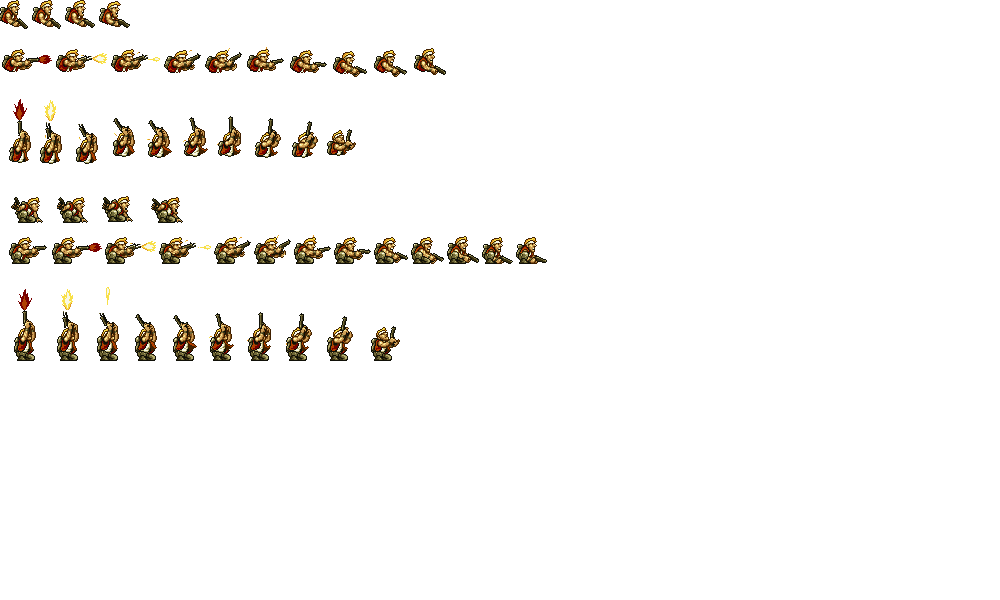
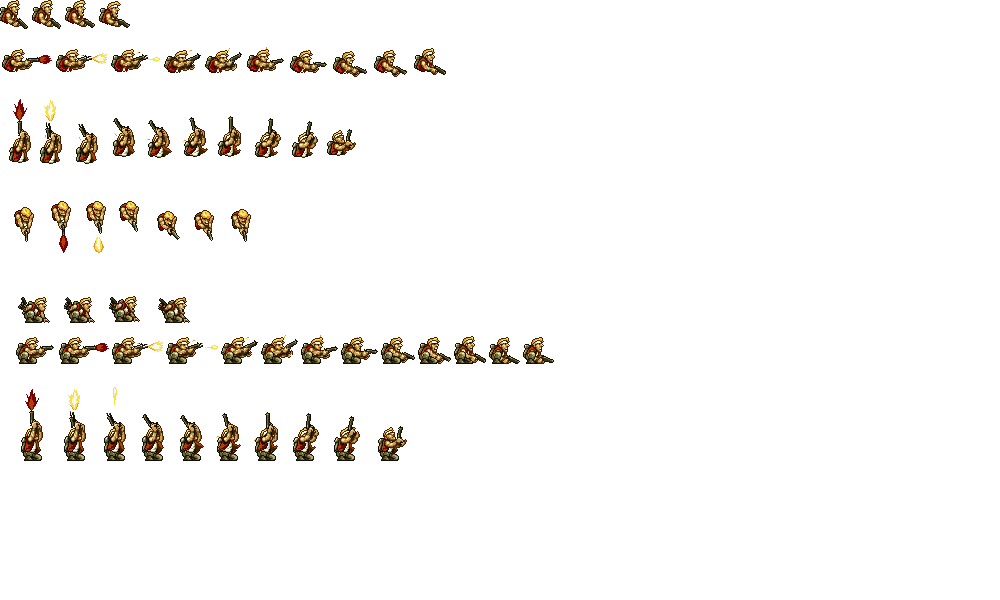
Possibilité de tirer vers le bas en sautant (avec l'animation qui va bien)

Changed region(s): [[0.0, 0.48, 0.558, 0.63], [0.0, 0.33, 0.558, 0.45], [0.0, 0.66, 0.403, 0.78]]

diff --git a/src/controller/Game.cpp b/src/controller/Game.cpp
@@ -181,6 +181,10 @@ void Game::checkKeyboardEvents(RenderWindow* window)
                     player.shoot(&ammo, Int2(0,-1));
                     break;
 
+                case Keyboard::Down :
+                    player.shoot(&ammo, Int2(0,1));
+                    break;
+
 
                 /* RECHARGER */
                 case Keyboard::R :
@@ -238,13 +242,15 @@ void Game::checkCollisions()
     Int2 p_pos = player.getPosition();
     Int2 p_siz = player.getSize();
 
+    list<PlatformView>* pltf = &(level.environment.platforms);
+
+
     /* PLAYER / BORD DE L'ECRAN */
     if(p_pos.x <= view.getCenter().x-view.getSize().x/2)
         player.bumpLeft(view.getCenter().x-view.getSize().x/2);
 
 
     /* PLAYER / PLATFORM */
-    list<PlatformView>* pltf = &(level.environment.platforms);
     bool collision = false;
     for(list<PlatformView>::iterator pl=pltf->begin(); pl!=pltf->end(); pl++) // On check les collisions avec TOUTES les plateformes (on peut etre en collision avec le sol et un mur...)
     {
@@ -270,6 +276,29 @@ void Game::checkCollisions()
     }
     if(!collision) { // Si il n'y a collision avec aucune plateforme, le personnage est en l'air et tombe
         player.jump(0);
+    }
+
+
+
+    /* ENNEMIS */
+    for(list<EnemyView*>::iterator e = enemies.begin(); e != enemies.end(); e++)
+    {
+        collision = false;
+        for(list<PlatformView>::iterator pl=pltf->begin(); pl!=pltf->end(); pl++) // On check les collisions avec TOUTES les plateformes (on peut etre en collision avec le sol et un mur...)
+        {
+            ObjetPhysique* e_ptr = (ObjetPhysique*)(*e);
+            ObjetPhysique* pl_ptr = (ObjetPhysique*)(&*pl);
+
+            if(checkIntersect(e_ptr,pl_ptr))
+            {
+                collision = true; 
+                if(checkCollisionTop(e_ptr,pl_ptr))
+                    (*e)->land((*pl).getPosition().y);              
+            }
+        }
+        if(!collision) { // Si il n'y a collision avec aucune plateforme, le personnage est en l'air et tombe
+            (*e)->jump(0);
+        }
     }
 
 
@@ -346,6 +375,7 @@ bool Game::checkIntersect(ObjetPhysique* obj1, ObjetPhysique* obj2) // Renvoie T
     Int2 pos2 = obj2->getPosition();
     Int2 siz1 = obj1->getSize();
     Int2 siz2 = obj2->getSize();
+    Float2 mov1 = obj1->getMovement();
 
     if(pos1.x + 20 > pos2.x + siz2.x  // p1(gauche) a droite de   p2(droite)
     || pos1.x + siz1.x - 20 < pos2.x  // p1(droite) a gauche de   p2(gauche)
@@ -370,13 +400,12 @@ bool Game::checkCollisionTop(ObjetPhysique* obj1, ObjetPhysique* obj2) {
 
     int hauteurIntersect = pos1.y + siz1.y - pos2.y; // la hauteur de la superposition entre le bas de o1 et le haut de o2 (on part du principe que o1 est dans la partie haute de o2)
     int largeurIntersect = min(pos1.x + siz1.x, pos2.x + siz2.x) - max(pos1.x, pos2.x); // La largeur de la superposition est égale a la taille de la superposition entre la plus grande des valeurs gauche, et la plus petite des valeurs droites.
-    if (((hauteurIntersect > 0) && (pos2.y > pos1.y)) // Si o1 est dans la partie haute de o2 (si le bas de o1 est en dessous du haut de o2, et que le haut de o1 est au dessus du haut de o2)
-        && (largeurIntersect > hauteurIntersect) 
-        && mov1.y>=0) {
+    if (mov1.y >= 0 
+        && hauteurIntersect > 0 && pos2.y > pos1.y // Si o1 est dans la partie haute de o2 (si le bas de o1 est en dessous du haut de o2, et que le haut de o1 est au dessus du haut de o2)
+        && largeurIntersect > hauteurIntersect)
         return true;
-    } else {
+    else
         return false;
-    }
 }
 
 
@@ -386,17 +415,18 @@ bool Game::checkCollisionBottom(ObjetPhysique* obj1, ObjetPhysique* obj2) {
     Int2 pos2 = obj2->getPosition();
     Int2 siz1 = obj1->getSize();
     Int2 siz2 = obj2->getSize();
+    Float2 mov1 = obj1->getMovement();
 
     //Si o1 est dans la partie basse de o2, et que la largeur de l'intersection entre o1 et o2 est suppérieure a sa hauteur, alors on a une collision entre o1 et o2 venant du bas
 
     int hauteurIntersect = pos2.y + siz2.y - pos1.y; // la hauteur de la superposition entre le bas de o2 et le haut de o1 (on part du principe que o1 est dans la partie basse de o2)
     int largeurIntersect = std::min(pos1.x + siz1.x, pos2.x + siz2.x) - max(pos1.x, pos2.x); // La largeur de la superposition est égale a la distance entre la plus grande des valeurs gauche, et la plus petite des valeurs droites.
-    if (((hauteurIntersect > 0) && (pos1.y + siz1.y > pos2.y + siz2.y)) // Si o1 est dans la partie basse de o2 (si le haut de o1 est au dessus du bas de o2, et que le bas de o1 est en dessous du bas de o2)
-        && (largeurIntersect > hauteurIntersect)) {
+    if (mov1.y <=0
+        && hauteurIntersect > 0 && pos1.y + siz1.y > pos2.y + siz2.y // Si o1 est dans la partie basse de o2 (si le haut de o1 est au dessus du bas de o2, et que le bas de o1 est en dessous du bas de o2)
+        && (largeurIntersect > hauteurIntersect))
         return true;
-    } else {
+    else
         return false;
-    }
 }
 
 
@@ -412,11 +442,10 @@ bool Game::checkCollisionLeft(ObjetPhysique* obj1, ObjetPhysique* obj2) {
     int largeurIntersect = pos1.x + siz1.x - pos2.x; // la largeur de la superposition entre la gauche de o2 et la droite de o1 (on part du principe que o1 est dans la partie gauche de o2)
     int hauteurIntersect = std::min(pos1.y + siz1.y, pos2.y + siz2.y) - max(pos1.y, pos2.y); // La hauteur de la superposition est égale a la distance entre la plus grande des valeurs haute, et la plus petite des valeurs basses.
     if (((largeurIntersect > 0) && (pos2.x > pos1.x)) // Si o1 est dans la partie gauche de o2 (si la droite de o1 est a droite de la gauche de o2, et que la gauche de o1 est a gauche de la gauche de o2)
-        && (hauteurIntersect > largeurIntersect)) {
+        && (hauteurIntersect > largeurIntersect))
         return true;
-    } else {
+    else
         return false;
-    }
 }
 
 
@@ -432,11 +461,10 @@ bool Game::checkCollisionRight(ObjetPhysique* obj1, ObjetPhysique* obj2) {
     int largeurIntersect = pos2.x + siz2.x - pos1.x; // la largeur de la superposition entre la gauche de o1 et la droite de o2 (on part du principe que o1 est dans la partie droite de o2)
     int hauteurIntersect = std::min(pos1.y + siz1.y, pos2.y + siz2.y) - max(pos1.y, pos2.y); // La hauteur de la superposition est égale a la distance entre la plus grande des valeurs haute, et la plus petite des valeurs basses.
     if (((largeurIntersect > 0) && (pos1.x + siz1.x > pos2.x + siz2.x)) // Si o1 est dans la partie droite de o2 (si la gauche de o1 est a gauche de la droite de o2, et que la droite de o1 est a droite de la droite de o2)
-        && (hauteurIntersect > largeurIntersect)) {
+        && (hauteurIntersect > largeurIntersect))
         return true;
-    } else {
+    else
         return false;
-    }
 }
 
 

diff --git a/src/view/PlayerView.cpp b/src/view/PlayerView.cpp
@@ -63,33 +63,46 @@ void PlayerView::display(RenderWindow* window)
 	/* JAMBES */
 	Vector2f legs_size = legs.getSize();
 
-	if(walkway>0)
+	if(walkway>0) // marcher à droite
 		legs.setPosition(Int2(position.x-(legs_size.x-size.x)/2,position.y+size.y-legs_size.y));
-	else
+	else // marcher à gauche
 		legs.setPosition(Int2(position.x-(legs_size.x-size.x)/2,position.y+size.y-legs_size.y));
 	
 	/* CORPS */
 	Vector2f body_size = body.getSize();
 	Vector2f legs_pos = legs.getPosition();
-	
-	if(state_p == KNELT)
+
+	if(state_b == SHOOT) // tirer
 	{
-		if(state_b==SHOOT && gunway.x<0)
-			body.setPosition(Vector2f(position.x+size.x-body_size.x,position.y+size.y-body_size.y));
-		else
-			body.setPosition(Vector2f(position.x,position.y+size.y-body_size.y));
-	}
-	else
-	{
-		if(state_b==SHOOT && gunway.x==0) // tire vers le haut
-			body.setPosition(Vector2f(position.x+(walkway>0?15:0),legs_pos.y-body_size.y+15));
-		else if((state_b==SHOOT && gunway.x>0) || (state_b!=SHOOT && walkway>0)) // tire a gauche
+		if(gunway.x > 0 && gunway.y == 0) // tirer à droite
 			body.setPosition(Vector2f(position.x+15,position.y));
-		else // tire a droite ou autre
+		else if(gunway.x < 0 && gunway.y == 0) // tirer à gauche
+			body.setPosition(Vector2f(position.x+size.x-body_size.x-15,position.y));
+		else if(gunway.x == 0 && gunway.y < 0) // tirer en haut
+			body.setPosition(Vector2f(position.x+(walkway>0?15:size.x-body_size.x-15),legs_pos.y-body_size.y+15));
+		else // tirer en bas
+			body.setPosition(Vector2f(position.x+(walkway>0?20:size.x-body_size.x-20),position.y+10));
+	}
+	else // marcher
+	{
+		if(walkway>0) // marcher à droite
+			body.setPosition(Vector2f(position.x+15,position.y));
+		else // marcher à gauche
 			body.setPosition(Vector2f(position.x+size.x-body_size.x-15,position.y));
 	}
 
+	if(state_p == KNELT) // à genoux
+	{
+		Vector2f tmp = body.getPosition();
+		body.setPosition(Vector2f(tmp.x,position.y+size.y-body_size.y));
+	}
 
+
+	/* DEBUG */
+	// body.setOutlineThickness(5);
+	// body.setOutlineColor(Color::Black);
+	// legs.body.setOutlineThickness(5);
+	// legs.body.setOutlineColor(Color::Black);
 
 	/* DESSIN */
 	if(state_p != KNELT)
@@ -227,6 +240,7 @@ void PlayerView::shoot(list<AmmoView*>* air, Int2 angle)
 		gunway = angle;
 		PlayerAnimationsBody anim_shoot;
 		PlayerAnimationsBody anim_shoot_up;
+		PlayerAnimationsBody anim_shoot_down;
 		PlayerAnimationsBody anim_after;
 
 		if(state_p == KNELT)
@@ -237,13 +251,16 @@ void PlayerView::shoot(list<AmmoView*>* air, Int2 angle)
 		}
 		else
 		{
-			anim_shoot    = PISTOLSHOOT;
-			anim_shoot_up = PISTOLSHOOTUP;
-			anim_after    = PISTOLRUN;
+			anim_shoot      = PISTOLSHOOT;
+			anim_shoot_up   = PISTOLSHOOTUP;
+			anim_shoot_down = PISTOLSHOOTDOWN;
+			anim_after      = PISTOLRUN;
 		}
 
-		if(gunway.x==0)
+		if(gunway.y<0)
 			changeAnimation(anim_shoot_up,false,anim_after);
+		else if(gunway.y>0)
+			changeAnimation(anim_shoot_down,false,anim_after);
 		else
 			changeAnimation(anim_shoot,false,anim_after);	
 

diff --git a/src/model/Player.cpp b/src/model/Player.cpp
@@ -81,12 +81,15 @@ void Player::setWeapon(int w)
 
 void Player::shoot(list<Ammo*>* air, Float2 angle)
 {
-	if(armes.size()>0)
+	if(armes.size()>0) // si on a une arme
 	{
-		armes[current_weapon]->shoot(air,angle);
-		state_b = SHOOT;
-		if(state_p == KNELT && angle.x!=0)
-			walkway = angle.x;
+        if(angle.y<=0 || state_g==AIR)
+        {
+    		armes[current_weapon]->shoot(air,angle);
+    		state_b = SHOOT;
+    		if(state_p == KNELT && angle.x!=0)
+    			walkway = angle.x;
+        }
 	}
 }
 
@@ -101,6 +104,7 @@ void Player::reload(int nb)
 {
 	armes[current_weapon]->reload(nb);
 }
+
 
 void Player::animate(int dt)
 {

diff --git a/include/view/PlayerView.h b/include/view/PlayerView.h
@@ -44,7 +44,7 @@ class PlayerView : public Player, public MyDrawable
 	     */
 		enum PlayerAnimationsBody
 		{
-			PISTOLRUN, PISTOLSHOOT, PISTOLSHOOTUP, 
+			PISTOLRUN, PISTOLSHOOT, PISTOLSHOOTUP, PISTOLSHOOTDOWN,
 			PISTOLKNEE, PISTOLKNEESHOOT, PISTOLKNEESHOOTUP
 		};
 

diff --git a/include/view/MemberView.h b/include/view/MemberView.h
@@ -36,6 +36,8 @@ using namespace sf;
  */
 class MemberView : public MyDrawable
 {
+	friend class PlayerView;
+	friend class EnemyView;
 
 	public :
 		
